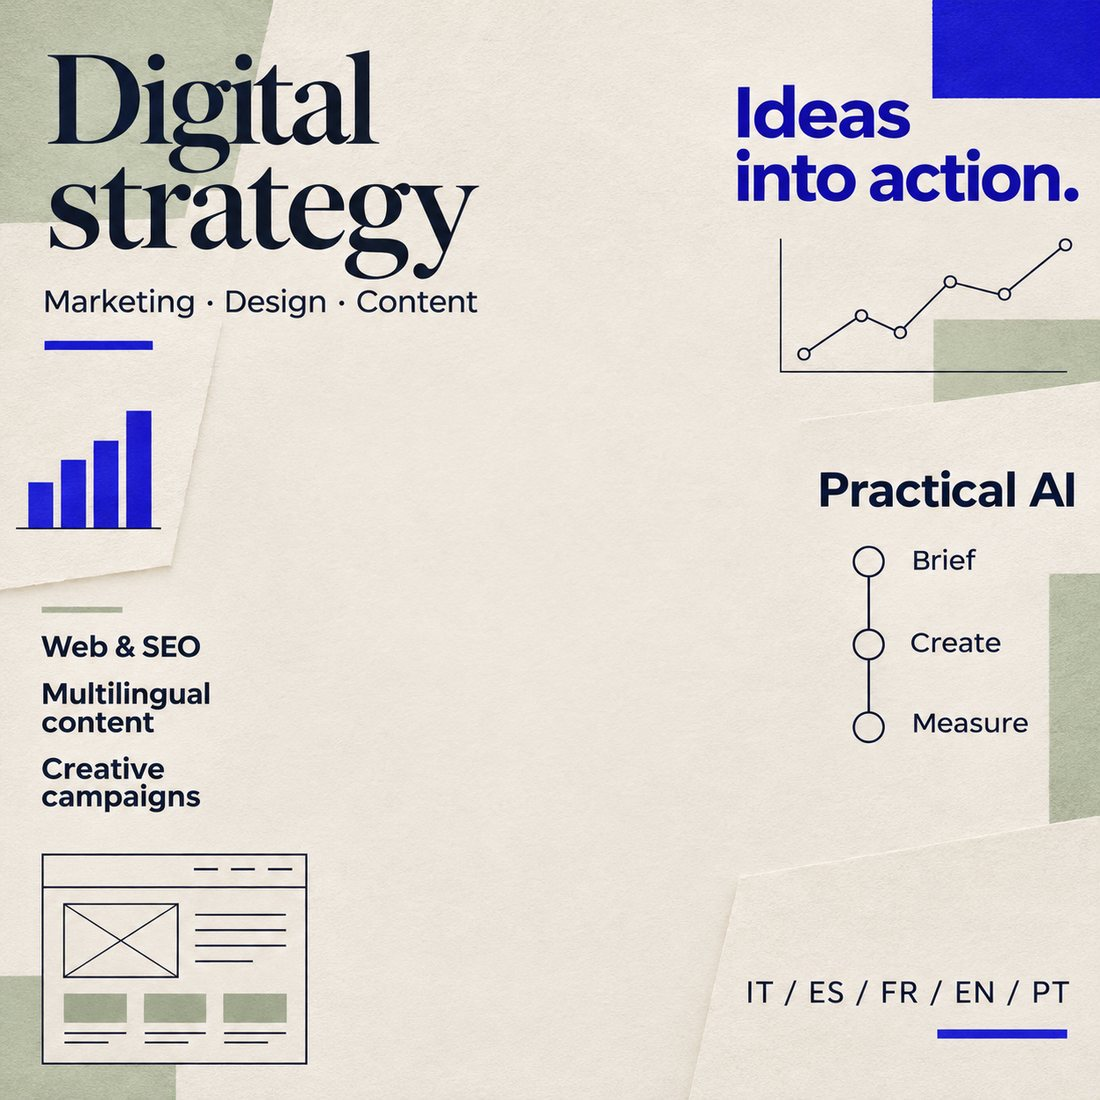
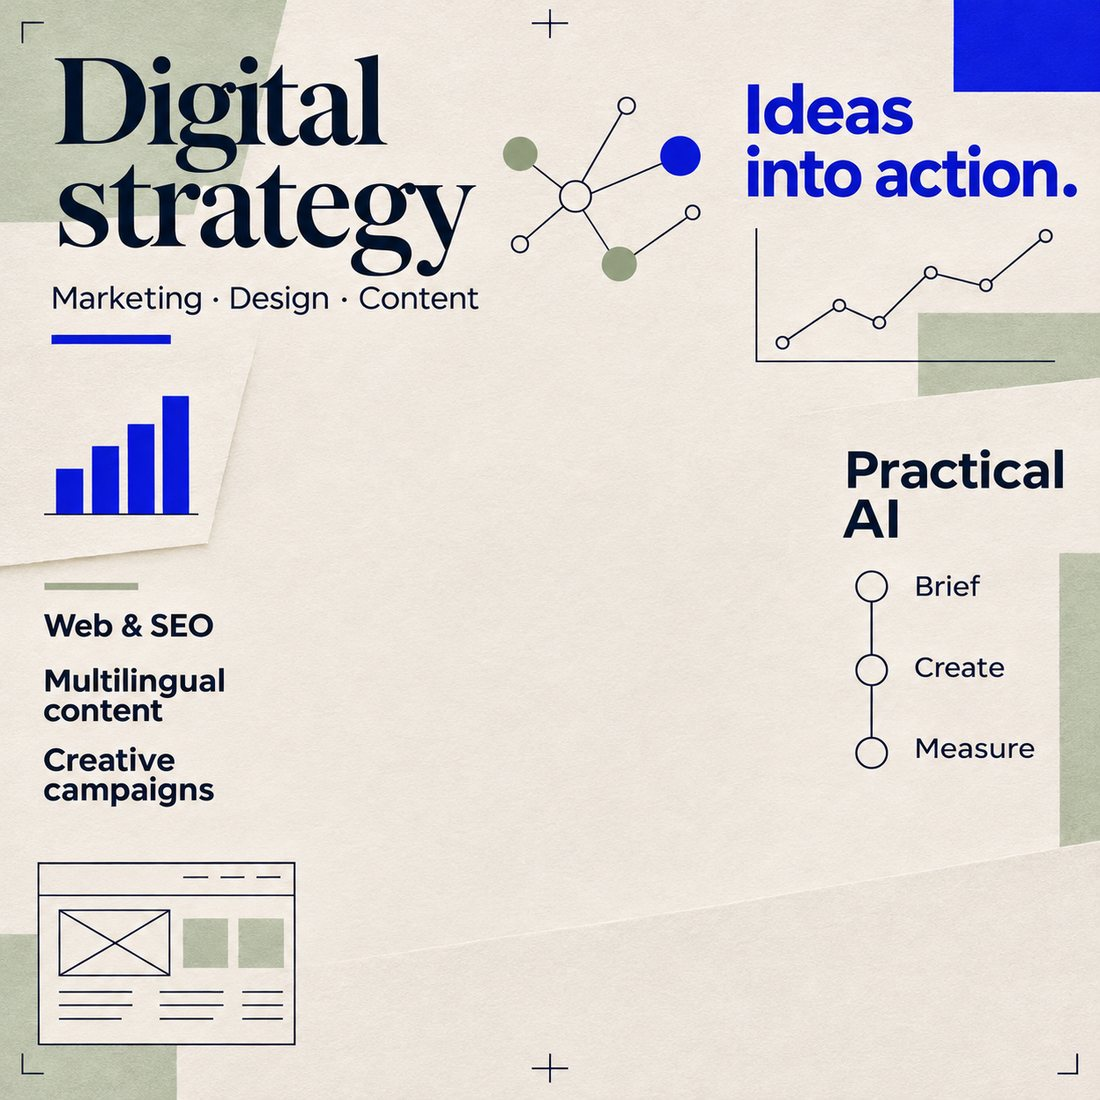
ES: nuovo sfondo copertina, ritratto allineato alla base, etichetta De la idea al resultado

diff --git a/es/index.html b/es/index.html
@@ -363,8 +363,8 @@ dialog::backdrop{background:rgba(22,21,15,.6);backdrop-filter:blur(6px)}
 .metric span{font-size:13px}
 #modal-link[hidden]{display:none}
 #modal-next{margin-left:auto}
-.hero-frame .hero-bg{transform:scale(1.04) translate3d(var(--bx,0px),var(--by,0px),0);transition:transform .45s var(--ease)}
-.hero-portrait{position:absolute;left:50%;bottom:0;width:66%;height:auto;z-index:2;pointer-events:none;transform:translateX(-50%);translate:var(--mx,0px) var(--my,0px);transition:translate .35s var(--ease);filter:drop-shadow(0 28px 28px rgba(22,21,15,.35))}
+.hero-frame .hero-bg{transform-origin:50% 100%;transform:scale(1.04) translate3d(var(--bx,0px),0,0);transition:transform .45s var(--ease)}
+.hero-portrait{position:absolute;left:50%;bottom:0;width:66%;height:auto;z-index:2;pointer-events:none;transform:translateX(-50%);translate:var(--mx,0px) var(--py,0px);transition:translate .35s var(--ease);filter:drop-shadow(0 28px 28px rgba(22,21,15,.35))}
 .hero-visual .hero-sticker{top:-16px;right:auto;left:38%}
 .hero-sticker,.hero-chip{z-index:3;translate:var(--sx,0px) var(--sy,0px);transition:translate .3s var(--ease)}
 .mk-case{border:1.5px solid var(--line);border-radius:var(--radius);background:#fff;padding:34px;display:grid;grid-template-columns:1.1fr 2fr;gap:34px;margin-bottom:22px}
@@ -467,7 +467,7 @@ dialog::backdrop{background:rgba(22,21,15,.6);backdrop-filter:blur(6px)}
           <img class="hero-bg" src="../img/hero-bg.jpg" alt="" width="1100" height="1100" fetchpriority="high">
         </div>
         <img class="hero-portrait" src="../img/gaetano.webp" alt="Ilustración de Gaetano Mangano" width="900" height="899" fetchpriority="high">
-        <div class="hero-sticker">IT · ES · FR · EN · PT</div>
+        <div class="hero-sticker">De la idea al resultado</div>
         <div class="hero-chip"><span class="dot"></span> Disponible para nuevos retos</div>
       </div>
     </div>
@@ -814,7 +814,7 @@ dialog::backdrop{background:rgba(22,21,15,.6);backdrop-filter:blur(6px)}
     let current='';
     for(const sec of sections){const r=sec.getBoundingClientRect();if(r.top<=window.innerHeight*0.4&&r.bottom>=window.innerHeight*0.4)current=sec.id;}
     navAnchors.forEach(a=>a.classList.toggle('active',a.getAttribute('href')==='#'+current));
-    if(!reduceMotion){const frame=$('#hero-frame');const y=Math.min(window.scrollY,600);frame.style.setProperty('--py',(y*0.06)+'px');}
+    if(!reduceMotion){const y=Math.min(window.scrollY,600);$('#hero-visual').style.setProperty('--py',(y*0.06)+'px');}
   }
   window.addEventListener('scroll',onScroll,{passive:true});onScroll();
   $('#to-top').addEventListener('click',()=>window.scrollTo({top:0,behavior:reduceMotion?'auto':'smooth'}));
@@ -824,8 +824,8 @@ dialog::backdrop{background:rgba(22,21,15,.6);backdrop-filter:blur(6px)}
   if(!reduceMotion){
     const setL=(x,y)=>{const v=heroVisual.style;
       heroFrame.style.setProperty('--ry',(x*8)+'deg');heroFrame.style.setProperty('--rx',(-y*8)+'deg');
-      heroFrame.style.setProperty('--bx',(-x*10)+'px');heroFrame.style.setProperty('--by',(-y*10)+'px');
-      v.setProperty('--mx',(x*34)+'px');v.setProperty('--my',(y*22)+'px');
+      heroFrame.style.setProperty('--bx',(-x*10)+'px');
+      v.setProperty('--mx',(x*34)+'px');
       v.setProperty('--sx',(x*52)+'px');v.setProperty('--sy',(y*40)+'px');};
     heroVisual.addEventListener('pointermove',e=>{const r=heroVisual.getBoundingClientRect();setL((e.clientX-r.left)/r.width-.5,(e.clientY-r.top)/r.height-.5);});
     heroVisual.addEventListener('pointerleave',()=>setL(0,0));
